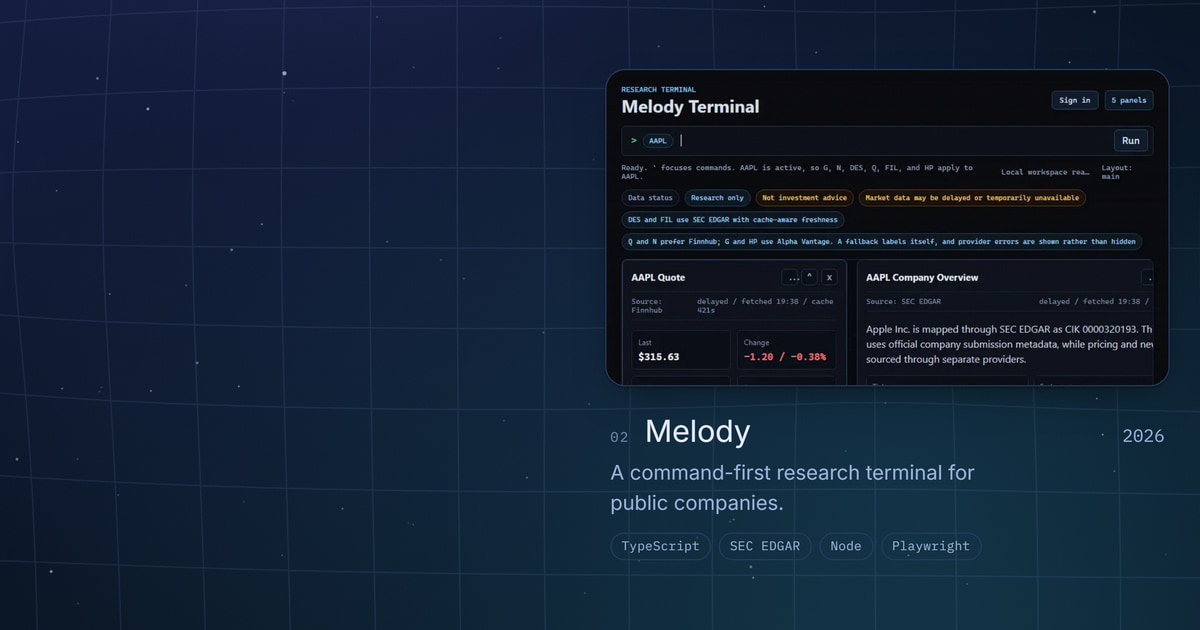
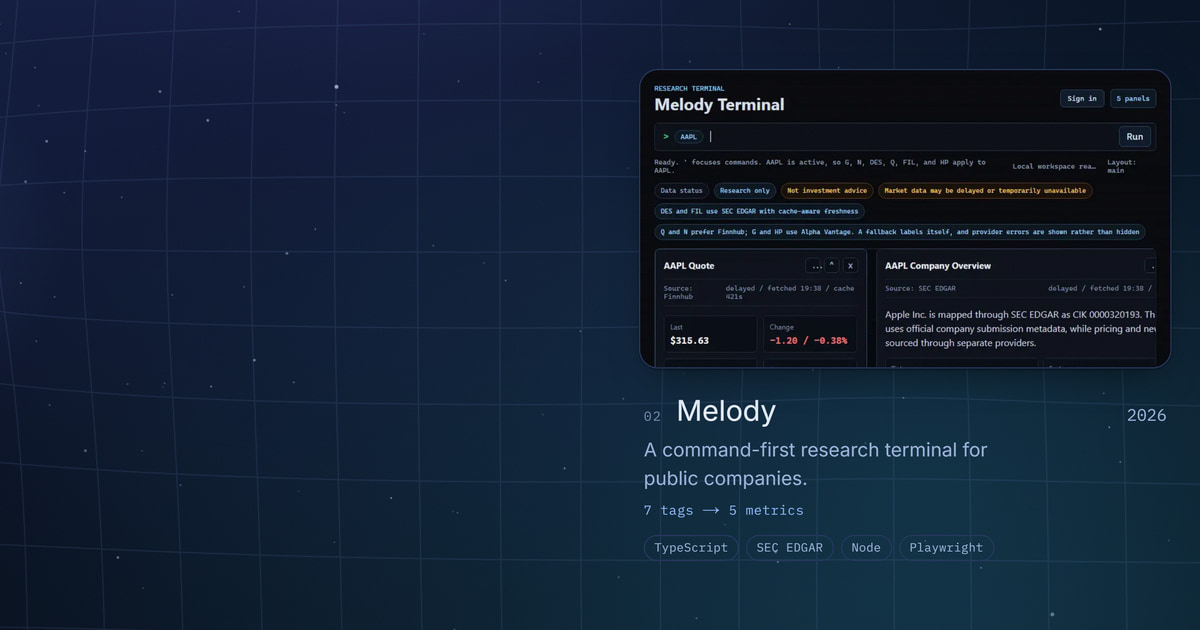
fix: a cold visit opened on a sign-in screen with no title
/projects/<slug> put the preview above the h1, so the URL most likely to be
pasted into an application spent its entire first viewport on a screenshot. For
Proof-Lens that screenshot was the app's sign-in form, so the page a recruiter
landed on was a login box belonging to nothing they could name.

The same frame was the card on the home page at every width above 768px, and the
OpenGraph image that renders in LinkedIn and WhatsApp. One asset, wrong in three
places. The poster is now the frame where the verification result is on screen —
the frame the alt text had been describing all along — and every card is
re-photographed from the running site.

The cold hero is also the LCP candidate, so it loads eagerly and takes a sizes
string for the 64rem column it actually occupies rather than the flank-card
default, which had the browser fetching a 640w file for a box twice that wide.

Declaring openGraph on a child route replaces the root layout's block wholesale,
so type, locale, siteName and url are restated here too. Every project card was
shipping without them.

Changed region(s): [[0.4933, 0.0905, 0.9867, 0.8143], [0.5242, 0.8444, 0.8325, 0.8746]]

diff --git a/src/app/projects/[slug]/page.tsx b/src/app/projects/[slug]/page.tsx
@@ -40,7 +40,15 @@ export async function generateMetadata({
       description: project.tagline,
       /* Declaring `openGraph` here replaces the root layout's wholesale, image
          included — which is why these routes shipped with no card at all
-         rather than with a generic one. The image has to be named again. */
+         rather than with a generic one. The image has to be named again.
+
+         And not only the image: `type`, `locale`, `siteName` and `url` are
+         replaced too, so every project page was shipping a card with no site
+         name and no canonical URL on it. Restated here for the same reason. */
+      type: "website",
+      locale: "en_GB",
+      siteName: site.name,
+      url: `${site.url}/projects/${slug}`,
       images: [
         {
           url: card ?? SITE_CARD,
@@ -112,17 +120,31 @@ export default async function ProjectPage({
         ← All work
       </Link>
 
+      {/* Name the thing before showing it.
+          The preview used to open this header, which meant a cold visit — the
+          URL that gets pasted into an application — spent its entire first
+          viewport on a screenshot with the project's name below the fold. For
+          Proof-Lens that screenshot was the app's sign-in form, so the page a
+          recruiter landed on was a login box belonging to nothing they could
+          name. */}
       <header className="py-12">
-        <PreviewSurface
-          project={summary}
-          className="mb-10 w-full rounded-2xl"
-        />
         <h1 className="text-ink text-4xl text-balance sm:text-5xl">
           {project.title}
         </h1>
         <p className="text-muted mt-3 max-w-2xl text-lg text-pretty">
           {project.tagline}
         </p>
+
+        <PreviewSurface
+          project={summary}
+          /* This is the largest element on the page and the LCP candidate on
+             every cold visit, so it loads eagerly and is measured against the
+             column it actually occupies rather than against a card in the
+             field. */
+          priority
+          sizes="(min-width: 1088px) 64rem, calc(100vw - 3rem)"
+          className="mt-10 w-full rounded-2xl"
+        />
 
         <dl className="mt-8 flex flex-wrap gap-x-10 gap-y-4 text-sm">
           <div>

diff --git a/src/components/PreviewSurface.tsx b/src/components/PreviewSurface.tsx
@@ -17,6 +17,7 @@ export function PreviewSurface({
   project,
   priority = false,
   active = false,
+  sizes = "(min-width: 1024px) 34vw, (min-width: 640px) 50vw, 100vw",
   className = "",
 }: {
   project: ProjectSummary;
@@ -24,6 +25,16 @@ export function PreviewSurface({
   priority?: boolean;
   /** Hovered or focused. A video preview plays only while this is true. */
   active?: boolean;
+  /**
+   * Layout hint for the image candidate.
+   *
+   * The default describes the *field* — a card is about a third of the
+   * viewport on a flank. The cold project route is a single 64rem column, so
+   * without an override the browser sizes for 34vw and fetches a 640w file for
+   * a box up to 1024px wide, which is the one place on the site where this
+   * image is the largest thing on screen.
+   */
+  sizes?: string;
   className?: string;
 }) {
   const { preview, title } = project;
@@ -88,7 +99,7 @@ export function PreviewSurface({
           className={
             preview.fit === "contain" ? "object-contain" : "object-cover"
           }
-          sizes="(min-width: 1024px) 34vw, (min-width: 640px) 50vw, 100vw"
+          sizes={sizes}
           priority={priority}
         />
       )}
